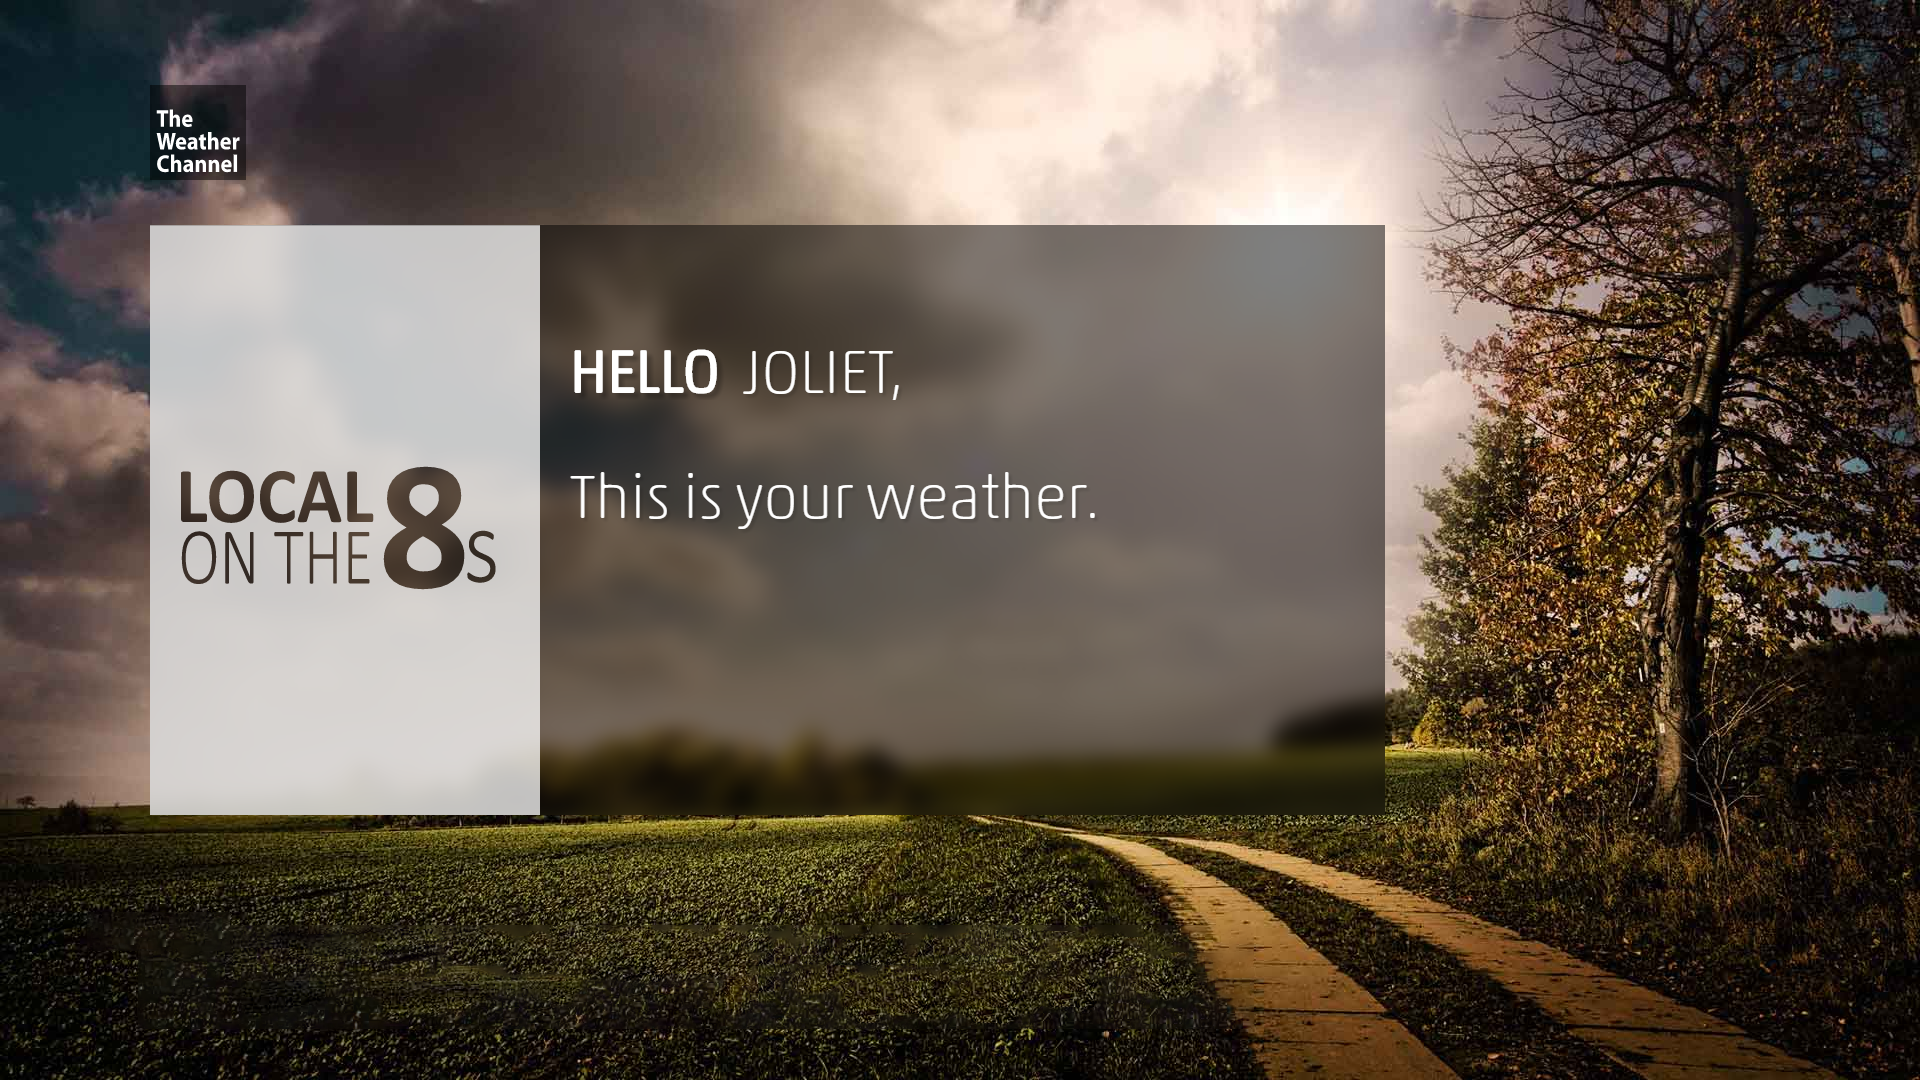
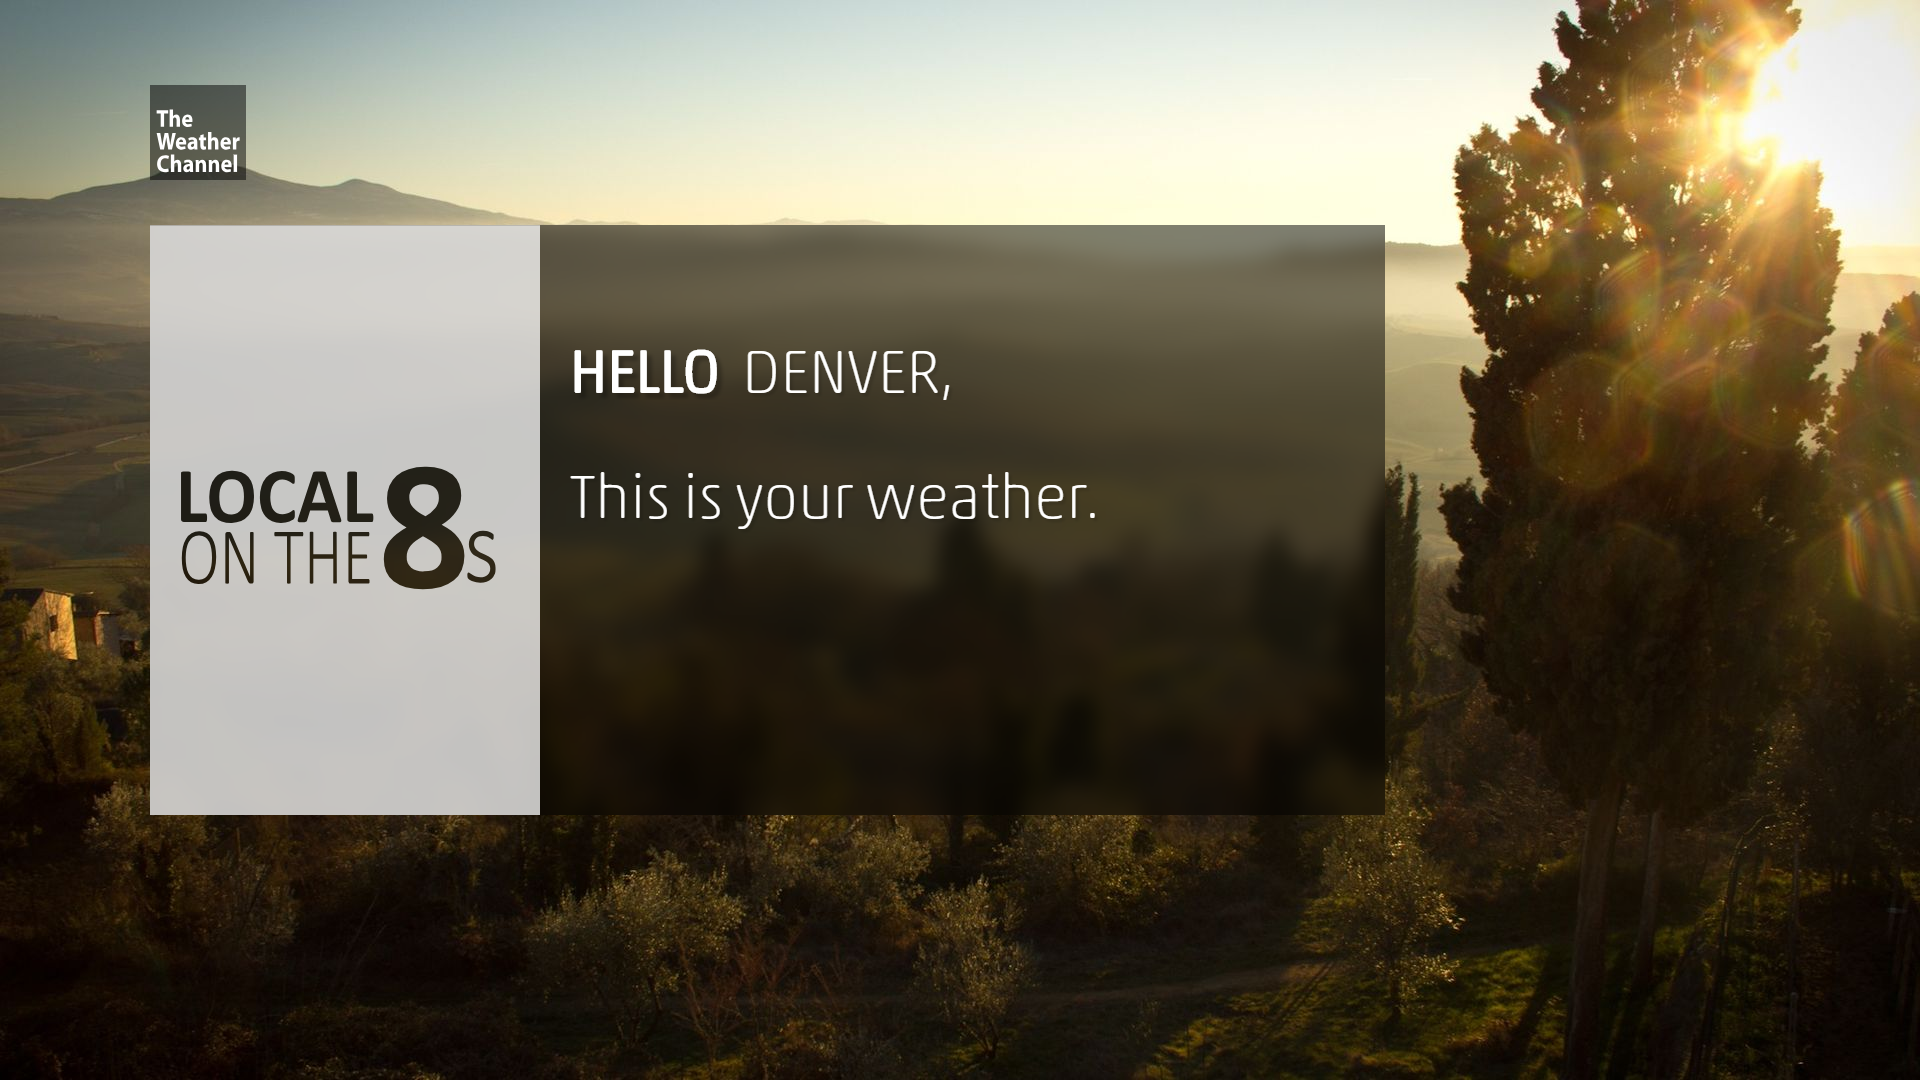
Updated screenshots

diff --git a/README.md b/README.md
@@ -43,3 +43,9 @@ To get looping working properly, you may (as of Chrome M66) have to go to chrome
 ![Screenshot 6](/screenshots/6.png)
 
 ![Screenshot 7](/screenshots/7.png)
+
+![Screenshot 8](/screenshots/8.png)
+
+![Screenshot 9](/screenshots/9.png)
+
+![Screenshot 10](/screenshots/10.png)
